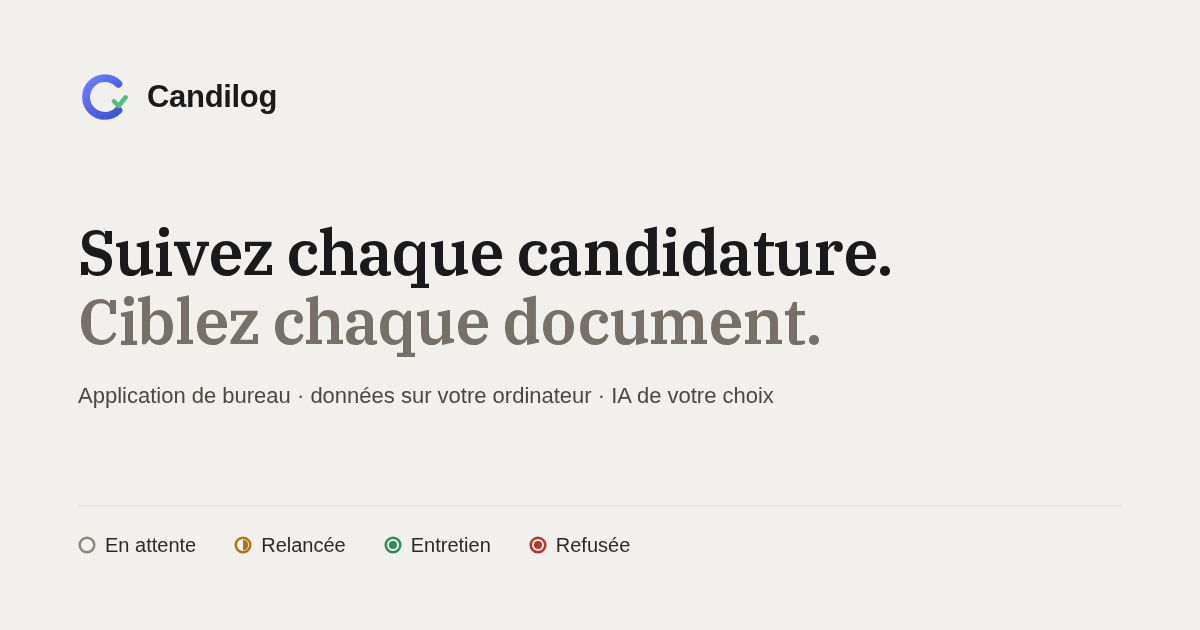
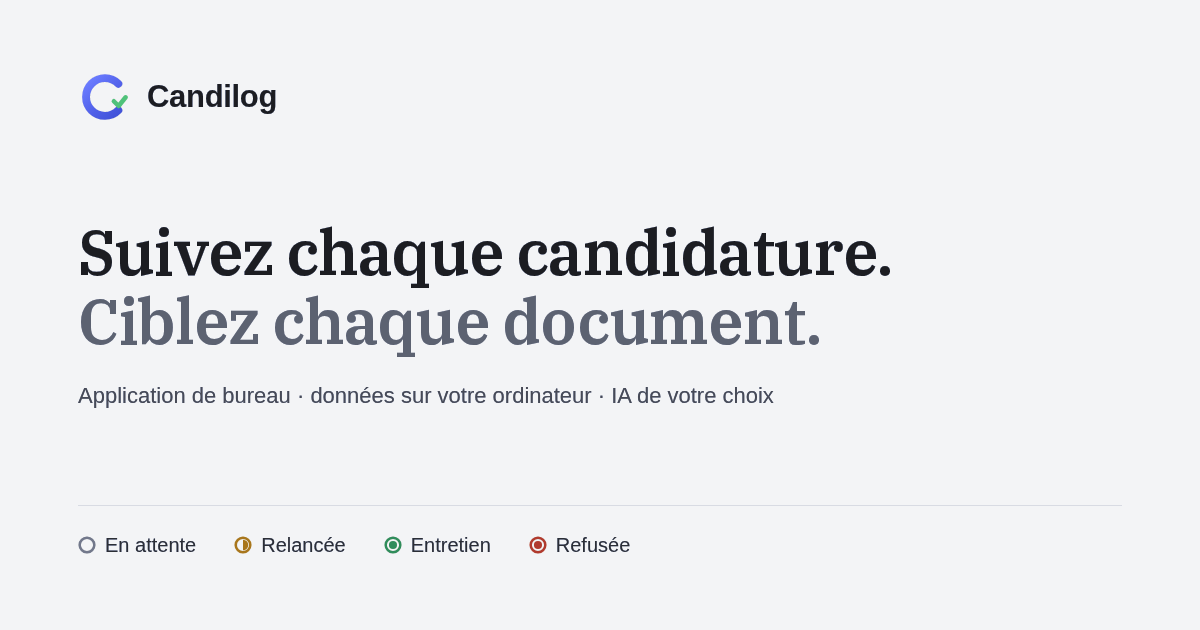
feat(site): aligne le thème clair du site sur le gris froid de l'application
L'application a refroidi son thème clair (f33bfb2) ; le site était resté sur la
palette sable et les deux ne montraient plus le même design. Les surfaces, les
filets, les encres, `st-n`, les teintes de pastille et les avatars reprennent à
l'identique les valeurs de `src/styles.css`, et les ombres passent du brun
`rgb(58 48 32)` au `rgb(18 20 28)` de l'application.

`frame` et `bd-strong` n'existent que sur le site : ils sont recalculés pour
prolonger la nouvelle rampe de filets d'un et deux crans (1,47 et 1,65 de
contraste sur `--app`), dans le même rapport qu'avant.

La feuille A4 des aperçus était chaude alors que les gabarits de l'application
sont froids depuis toujours : ses encres, son filet et sa colonne latérale sont
recalés sur `--resume-*` et `--letter-*`. Le surlignage lavande ne bouge pas, il
vient de l'accent.

L'image de partage, peinte dans l'ancienne palette, est recolorée par
correspondance de jetons ; les couleurs de statut et le logo sont inchangés.

Changed region(s): [[0.0617, 0.4524, 0.6783, 0.573], [0.0617, 0.8444, 0.0925, 0.8746]]

diff --git a/website/app/globals.css b/website/app/globals.css
@@ -9,46 +9,50 @@
 
 @import "tailwindcss";
 
-/* ── 1. Jetons v2 — clair (papier chaud) / sombre ─────────────────────────── */
+/* ── 1. Jetons v2 — clair (gris froid) / sombre ───────────────────────────── */
 :root {
   /* Surfaces */
-  --desk: #dedcd6;        /* bureau sous les fenêtres et la feuille A4 */
-  --app: #f1f0ec;         /* fond de page, chrome des fenêtres */
-  --app-glass: rgb(241 240 236 / 0.86);
-  --panel: #fcfbf9;       /* zone de travail, sections claires */
-  --elev: #e4e2dc;
-  --hover: #f4f2ec;
-  --sel: #ecedfb;
-  --group: #f5f3ee;
-  --chip: #eae7e0;
+  --desk: #dcdee6;        /* bureau sous les fenêtres et la feuille A4 */
+  --app: #f3f4f6;         /* fond de page, chrome des fenêtres */
+  --app-glass: rgb(243 244 246 / 0.86);
+  --panel: #ffffff;       /* zone de travail, sections claires */
+  --elev: #e5e7ec;
+  --hover: #eff1f4;
+  --sel: #e4e5f4;
+  --group: #edeff2;
+  --chip: #e8eaee;
   --modal: #ffffff;
-  --field: #f5f3ee;
+  --field: #edeff2;
   --paper: #ffffff;       /* feuille A4 : blanche dans les deux thèmes */
-  /* Encres de la feuille A4 (`documentPaper` de tokens.json) : identiques dans les
-     deux thèmes, la feuille prévisualise une page imprimée. */
-  --paper-ink: #1a1a1c;
-  --paper-ink-2: #4b4843;
-  --paper-ink-3: #8b8781;
-  --paper-rule: #dfdcd5;
-  --paper-sk: #c9c6c0;
-  --paper-side: #f5f3ee;
+  /* Encres de la feuille A4 : celles des gabarits de l'application
+     (`--resume-*` et `--letter-*` de `src/styles.css`, encres du moteur PDF),
+     identiques dans les deux thèmes — la feuille prévisualise une page imprimée. */
+  --paper-ink: #14161b;
+  --paper-ink-2: #3a3f4c;
+  --paper-ink-3: #767c8b;
+  --paper-rule: #e2e4ea;
+  --paper-sk: #c6c9d2;
+  --paper-side: #f4f5fb;
   --paper-mark: #ecedfb;  /* surlignage d'un élément ajouté ou recommandé */
 
   /* Filets */
-  --bd: #e7e4dd;
-  --bd-soft: #efede7;
-  --bd-menu: #e4e0d8;
-  --frame: #dfdcd5;
-  --bd-strong: #d3cfc6;
+  --bd: #d8dbe3;
+  --bd-soft: #e4e6eb;
+  --bd-menu: #ced1dc;
+  /* `frame` et `bd-strong` n'existent que sur le site : ils prolongent la rampe de
+     filets de l'application d'un cran (1,47) et de deux (1,65) de contraste sur
+     `--app`, dans le même rapport qu'avant le passage au gris froid. */
+  --frame: #c7cbd6;
+  --bd-strong: #bbc0cd;
 
   /* Encres, de la plus forte à la plus faible */
-  --tx: #1a1a1c;
-  --tx-2: #2c2a27;
-  --tx-3: #4b4843;
-  --tx-4: #767069;
-  --tx-5: #84807a;
-  --tx-6: #a8a39c;
-  --tx-7: #bdb9b1;
+  --tx: #1c1d22;
+  --tx-2: #2b2e35;
+  --tx-3: #474a56;
+  --tx-4: #5c6271;
+  --tx-5: #696f80;
+  --tx-6: #888d9e;
+  --tx-7: #a9adb8;
 
   /* Accent — un seul, indigo */
   --ac: #4a51df;
@@ -58,24 +62,24 @@
   --brand: #5b62f0;       /* tuile de marque, fixe dans les deux thèmes */
 
   /* Statuts : neutre, ambre, vert, rouge */
-  --st-n: #8c877f;
+  --st-n: #72788b;
   --st-a: #a8761c;
   --st-g: #2f8c5b;
   --st-c: #b03a2e;
 
   /* Teintes appariées fond / encre */
-  --tint-ac-bg: #dedff6;
-  --tint-ac-tx: #33356b;
-  --tint-g-bg: #d3e8db;
-  --tint-g-tx: #256647;
-  --tint-c-bg: #f6deda;
-  --tint-c-tx: #a5342a;
+  --tint-ac-bg: #d6d8f2;
+  --tint-ac-tx: #3a3c72;
+  --tint-g-bg: #caded5;
+  --tint-g-tx: #1f5a3e;
+  --tint-c-bg: #e6d1d0;
+  --tint-c-tx: #8e2a20;
 
   /* Avatars */
-  --av1: #c9cbee;
-  --av2: #c7ddd0;
-  --av3: #dccfe2;
-  --av-tx: #33356b;
+  --av1: #c9cbf0;
+  --av2: #c2dacf;
+  --av3: #d6ccdd;
+  --av-tx: #3a3c72;
 
   /* Feux de fenêtre macOS */
   --wc1: #df6a5e;
@@ -83,8 +87,8 @@
   --wc3: #4fb07a;
 
   /* Ombres : fenêtres de l'aperçu, menus, dialogues — jamais le contenu */
-  --sh-window: 0 1px 2px rgb(58 48 32 / 0.06), 0 30px 70px -24px rgb(58 48 32 / 0.24);
-  --sh-pop: 0 18px 48px -12px rgb(58 48 32 / 0.3);
+  --sh-window: 0 1px 2px rgb(18 20 28 / 0.06), 0 30px 70px -24px rgb(18 20 28 / 0.24);
+  --sh-pop: 0 18px 48px -12px rgb(18 20 28 / 0.3);
   --sh-sheet: 0 1px 2px rgb(0 0 0 / 0.1), 0 8px 24px -8px rgb(0 0 0 / 0.15);
 
   color-scheme: light;

diff --git a/website/app/layout.tsx b/website/app/layout.tsx
@@ -70,7 +70,7 @@ export const metadata: Metadata = {
 
 export const viewport: Viewport = {
   themeColor: [
-    { media: "(prefers-color-scheme: light)", color: "#f1f0ec" },
+    { media: "(prefers-color-scheme: light)", color: "#f3f4f6" },
     { media: "(prefers-color-scheme: dark)", color: "#101114" },
   ],
 };

diff --git a/website/DESIGN.md b/website/DESIGN.md
@@ -14,7 +14,7 @@ Le design est **haute fidélité** : `13,5px` n'est pas `text-sm`, `r9` n'est pa
 Les couleurs ne sont pas écrites dans les classes, elles sont **exposées à Tailwind
 depuis des variables CSS** (`app/globals.css`, bloc `@theme inline`), sous les noms du
 handoff de l'application : `bg-panel`, `text-tx-3`, `border-bd`, `bg-ac`, `bg-st-g`…
-`bg-panel` rend `#FCFBF9` en clair et `#16171B` en sombre, sans une seule variante `dark:`.
+`bg-panel` rend `#FFFFFF` en clair et `#16171B` en sombre, sans une seule variante `dark:`.
 
 ```tsx
 // ✅ une seule écriture, les deux thèmes
@@ -43,7 +43,8 @@ handoff de l'application : `bg-panel`, `text-tx-3`, `border-bd`, `bg-ac`, `bg-st
 
 ## 2. Jetons
 
-Définis sur `:root` (clair, papier chaud) et `:root[data-theme="dark"]`.
+Définis sur `:root` (clair, gris froid — même famille que le sombre) et
+`:root[data-theme="dark"]`.
 
 | Famille | Utilitaires |
 | --- | --- |
@@ -54,7 +55,7 @@ Définis sur `:root` (clair, papier chaud) et `:root[data-theme="dark"]`.
 | Statuts | `st-n` · `st-a` · `st-g` · `st-c` — neutre, ambre, vert, rouge |
 | Teintes | `bg-tint-{ac,g,c}-bg` + `text-tint-{ac,g,c}-tx` |
 | Avatars | `bg-av1` → `bg-av3`, `text-av-tx` |
-| Feuille A4 | `bg-paper`, `text-paper-ink{,-2,-3}`, `bg-paper-rule`, `bg-paper-sk`, `bg-paper-side`, `bg-paper-mark` — **identiques dans les deux thèmes** |
+| Feuille A4 | `bg-paper`, `text-paper-ink{,-2,-3}`, `bg-paper-rule`, `bg-paper-sk`, `bg-paper-side`, `bg-paper-mark` — encres des gabarits de l'application, **identiques dans les deux thèmes** |
 | Fenêtre | `bg-wc1` → `bg-wc3` (feux macOS, gris en sombre) |
 
 **Jetons v1 hérités.** `bg-page`, `bg-surface`, `text-ink*`, `border-line`,
